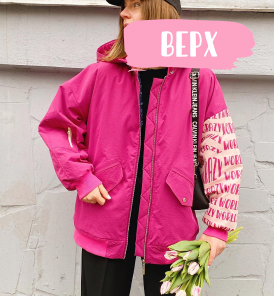
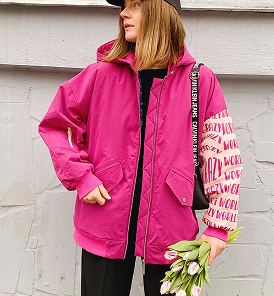
Add files via upload

diff --git a/index.html b/index.html
@@ -53,9 +53,14 @@
         </nav>
     </header> 
     <main class="main container">
-        <figure class="clothes__figure"> 
-                <img class="clothes__image" src="/images/category.png" alt="Одежда" width="1140" height="656">
-        </figure>
+        <section class="categories"> 
+                <img class="categories__image" src="/images/tshirts.jpg" alt="Футболки" width="563" height="345">
+                <img class="categories__image" src="/images/bottom.jpg" alt="Низ" width="274" height="296">
+                <img class="categories__image" src="/images/top.jpg" alt="Верх" width="274" height="296">
+                <img class="categories__image" src="/images/dresses.jpg" alt="Платья" width="273" height="296">
+                <img class="categories__image" src="/images/costumes.jpg" alt="Костюмы" width="274" height="296">
+                <img class="categories__image" src="/images/hoodie.jpg" alt="Худи" width="563" height="345">
+        </section> 
         <section class="clothes">
             <div class="clothes__div"> 
                 <h2 class="clothes__new">Новинки</h2>
@@ -99,7 +104,7 @@
                     <img class="address__image" src="/images/map.png" alt="Map" width="273" height="246">
                 </li>
              </ul>
-            <div class="button__address">
+            <div class="address__button">
                 <button class="address__button button">Проложить маршрут</button>
             </div> 
         </section>
@@ -127,20 +132,58 @@
             <div class="costumes__div">
                 <h3 class="costumes__title">Костюмы</h3>
             </div>
-             <ul>
-                 <li>
-                     <img class="clothes__image" src="/images/cards.jpg" alt="Фото одежды" width="1440" height="530">
-                     <img class="shipping__image" src="/images/ytp.png" alt="Отправка, возврат" width="1139" height="100">
-                     <img class="socialnetwork__image" src="/images/insta.png" alt="Инст" width="1141" height="388">
-                     <img class="end__image" src="/images/footerfull.jpg" alt="Конец" width="1140" height="247">
+             <ul class="costumes__block">
+                 <li class="costumes__images">
+                     <img class="costumes__image" src="/images/beige_set.jpg" alt="Бежевый комплект" width="360" height="530">
+                     <img class="costumes__image" src="/images/gray_set_with_panama.jpg" alt="Серый комплект" width="360" height="530">
+                     <img class="costumes__image" src="/images/zebra_set.jpg" alt="Комплект зебра" width="360" height="530">
+                     <img class="costumes__image" src="/images/black_set.jpg" alt="Черный комплект" width="360" height="530">
                  </li>
              </ul>
                 <button class="main__button button">Смотреть все</button>
         </section>
-        
-        <section>
+        <section class="information">
+            <ul class="information__block">
+                <li class="information__images">
+                    <img class="information__image" src="/images/sending.png" alt="Кошка в плаще" width="81" height="98">
+                    <h3 class="information__title">Отправка день в день</h3>
+                    <p class="information__description">ПРИ ЗАКАЗЕ ДО 18:00</p>
+                </li>
+                <li class="information__images">
+                    <img class="information__image" src="/images/exchange.png" alt="Коробка с крыльями" width="81" height="98">
+                    <h3 class="information__title">Легкий возврат/обмен</h3>
+                    <p class="information__description">В ТЕЧЕНИЕ 14 ДНЕЙ</p>
+                </li>
+                <li class="information__images">
+                    <img class="information__image" src="/images/heart_needles.png" alt="Сердце с иголками" width="81" height="98">
+                    <h3 class="information__title">Сделано в Украине</h3>
+                    <p class="information__description">ПРЯМ В КИЕВЕ</p>
+                </li>
+            </ul>
+        </section>
+        <section class="socialnetwork">
+            <ul class="socialnetwork__block">
+                <li class="socialnetwork__images">
+                    <img class="socialnetwork__image" src="/images/long_shirt.jpg" alt="Длинная рубашка" width="205" height="205">
+                    <img class="socialnetwork__image" src="/images/coat.jpg" alt="Пальто" width="168" height="168">
+                    <h3 class="socialnetwork__title">INSTAGRAM</h3>
+                    <p class="socialnetwork__description">Мы в экстазе, когда ты нас отмечаешь</p>
+                    <p class="socialnetwork__description">Отмечай плз чаще</p>
+                </li>
+                <li class="socialnetwork__images">
+                    <img class="socialnetwork__image" src="/images/pink_hoodie.jpg" alt="Розовое худи" width="370" height="370">
+                </li>
+                <li class="socialnetwork__images">
+                    <img class="socialnetwork__image" src="/images/hanger.jpg" alt="Вешалка" width="168" height="168">
+                    <img class="socialnetwork__image" src="/images/green_coat.jpg" alt="Зеленое пальто" width="205" height="205">
+                    <p class="socialnetwork__title">#BOORIVAGIRLS</p>
+                    <p class="socialnetwork__description">Ставь тэг чтобы быть в нашей тусовке</p>
+                </li>
+            </ul>
+        </section>
+        <section class="basket">
             <form action="/">
-                <h1 class="basket__image">Корзина</h1>
+                <h3 class="basket__image">Корзина</h3>
                 <input type="text" name="name" placeholder="Имя" required>
                 <input type="text" name="surname" placeholder="Фамилия" required>
                 <input type="tel" name="phone" placeholder="Номер телефона" required> 
@@ -150,10 +193,26 @@
     </main>
     <footer class="footer container">
         <p>Сайт создан Лемякиной Марией группа СТ-21</p>
-        <ul>
-        <li><a href="#">Правовая оговорка</a></li>
-        <li><a href="#">Пользовательское соглашение</a></li>
-        <li><a href="#">Политика конфиденциальности</a></li>
+        <div class="footer__div"> 
+            <h2 class="footer__title">Booriva</h2>
+        </div>
+        <ul class="footer__categories">
+            <li class="footer__info">
+                <p class="footer__title">ИНФО</p>
+                <li class="footer__contacts"><a href="#">Контакты</a></li>
+                <li class="footer__system"><a href="#">Система лояльности</a></li>
+                <li class="footer__exchange"><a href="#">Обмен и возврат</a></li>
+            </li>
+            <li class="footer__address">
+                <p class="footer__title">НАШ АДРЕС</p>
+                <p class="footer__location">г.Киев, ул. Нижний Вал, 37</p>
+                <p class="footer__hours">Пн — Вс: с 11:00 до 21:00</p>
+            </li>
+            <li class="footer__socialnetworks">
+                <p class="footer__title">СОЦ.СЕТИ</p>
+                <a class="footer__link" href="#"><img src="images/logo_inst.png" alt="">Инста</a>
+                <a class="footer__link" href="#"><img src="images/logo_facebook.png" alt="">Фейсбук</a>
+            </li>
         </ul>
     </footer>
 </body>

diff --git a/README.md b/README.md
@@ -13,3 +13,4 @@
 - 05.02: Сделана разметка главной страницы
 - 21.01: Создан и подключен базовый файл style.css. Созданы несколько стилевых файлов и импортированы в базовый 
 - 22.02 - 23.02: Сделана стилизация кнопок, подключены базовые стили, типографика, цвет
+- 02.03: сверстана страница и проставлены везде классы
